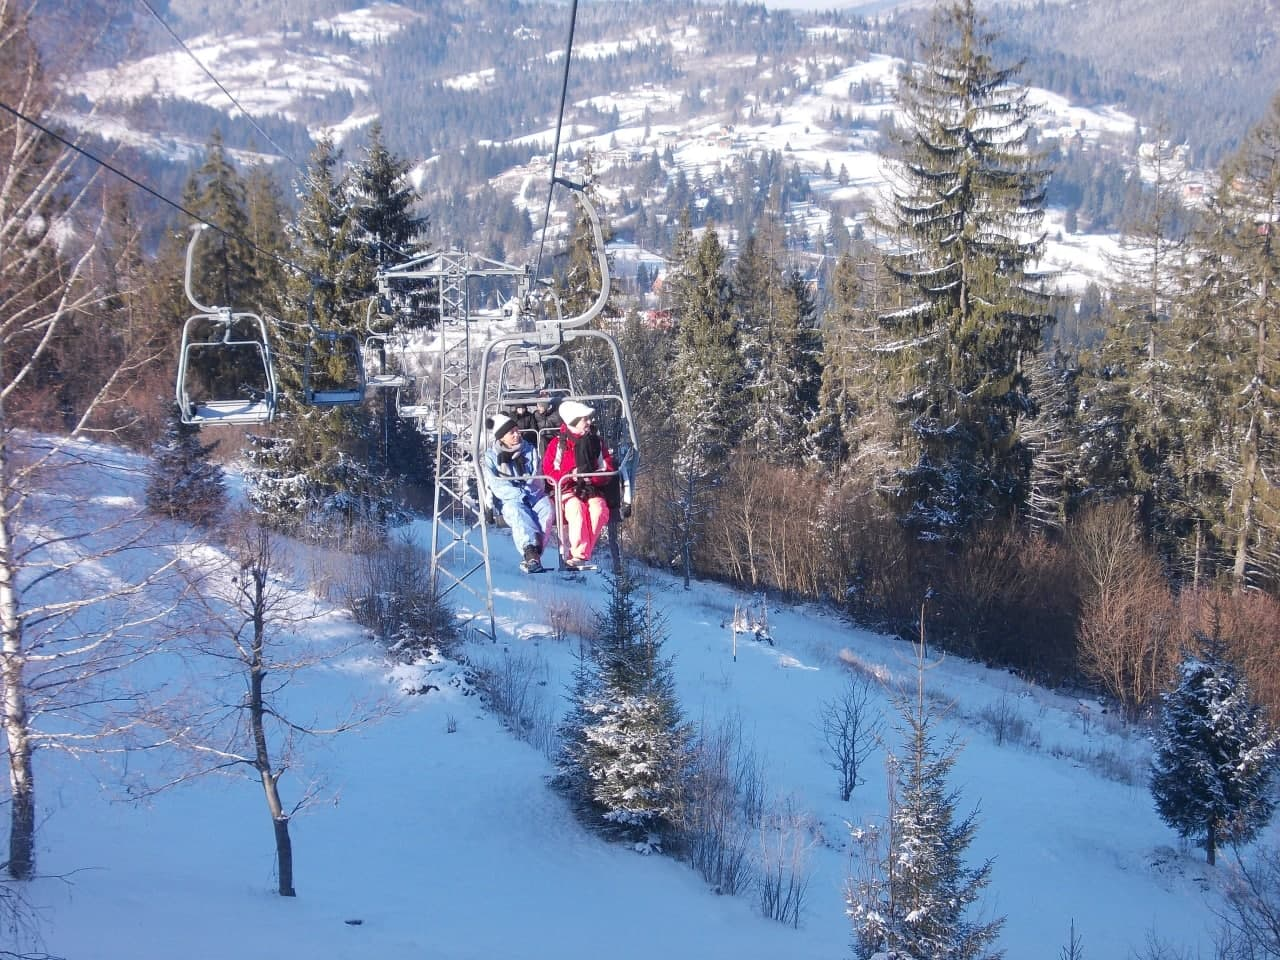
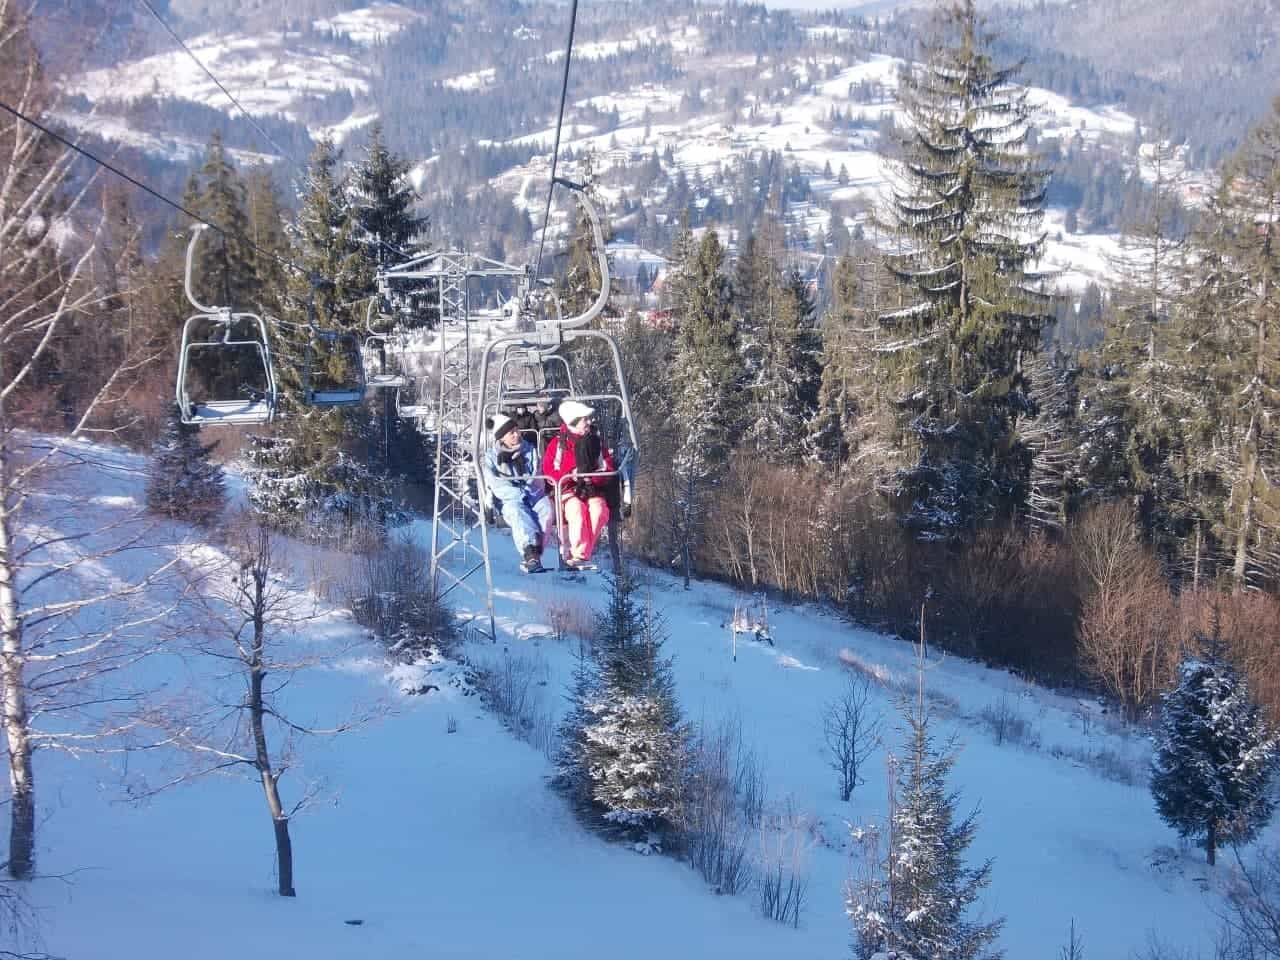
compress images

diff --git a/index.html b/index.html
@@ -207,6 +207,7 @@
         <div class="our_projects_vid">
           <div class="iframeBox">
             <iframe
+              loading="lazy"
               width="560"
               height="315"
               src="https://www.youtube.com/embed/t9ZUpxottCI"
@@ -361,18 +362,30 @@
         <div class="gallery">
           <div class="galleryBox">
             <h2>Наши фотки</h2>
-            <span style="--i: 1"><img src="img/3onSnow.jpg" alt="Горы" /></span>
+            <span style="--i: 1"
+              ><img src="img/3onSnow.jpg" loading="lazy" alt="Горы"
+            /></span>
             <span style="--i: 2"
               ><img src="img/juliaPlusAlena.jpg" alt="Горы"
             /></span>
-            <span style="--i: 3"><img src="img/fingers.jpg" alt="Горы" /></span>
-            <span style="--i: 4"><img src="img/gues.jpg" alt="Горы" /></span>
-            <span style="--i: 5"><img src="img/art.jpg" alt="Горы" /></span>
-            <span style="--i: 6"><img src="img/lift.jpg" alt="Горы" /></span>
-            <span style="--i: 7"
-              ><img src="img/genaPlusAlena.jpg" alt="Горы"
+            <span style="--i: 3"
+              ><img src="img/fingers.jpg" loading="lazy" alt="Горы"
             /></span>
-            <span style="--i: 8"><img src="img/wall.jpg" alt="Горы" /></span>
+            <span style="--i: 4"
+              ><img src="img/gues.jpg" loading="lazy" alt="Горы"
+            /></span>
+            <span style="--i: 5"
+              ><img src="img/art.jpg" loading="lazy" alt="Горы"
+            /></span>
+            <span style="--i: 6"
+              ><img src="img/lift.jpg" loading="lazy" alt="Горы"
+            /></span>
+            <span style="--i: 7"
+              ><img src="img/genaPlusAlena.jpg" loading="lazy" alt="Горы"
+            /></span>
+            <span style="--i: 8"
+              ><img src="img/wall.jpg" loading="lazy" alt="Горы"
+            /></span>
           </div>
         </div>
         <div class="btn_consultation">

diff --git a/less/main.less b/less/main.less
@@ -296,6 +296,7 @@ body {
         color: #ffffff;
         display: block;
         line-height: 60px;
+        font-size: 20px;
 
         &:hover {
           color: @btns_color;

diff --git a/css/main.css b/css/main.css
@@ -240,6 +240,7 @@ body {
   color: #ffffff;
   display: block;
   line-height: 60px;
+  font-size: 20px;
 }
 .site_header ul li a:hover {
   color: #36b8ab;
